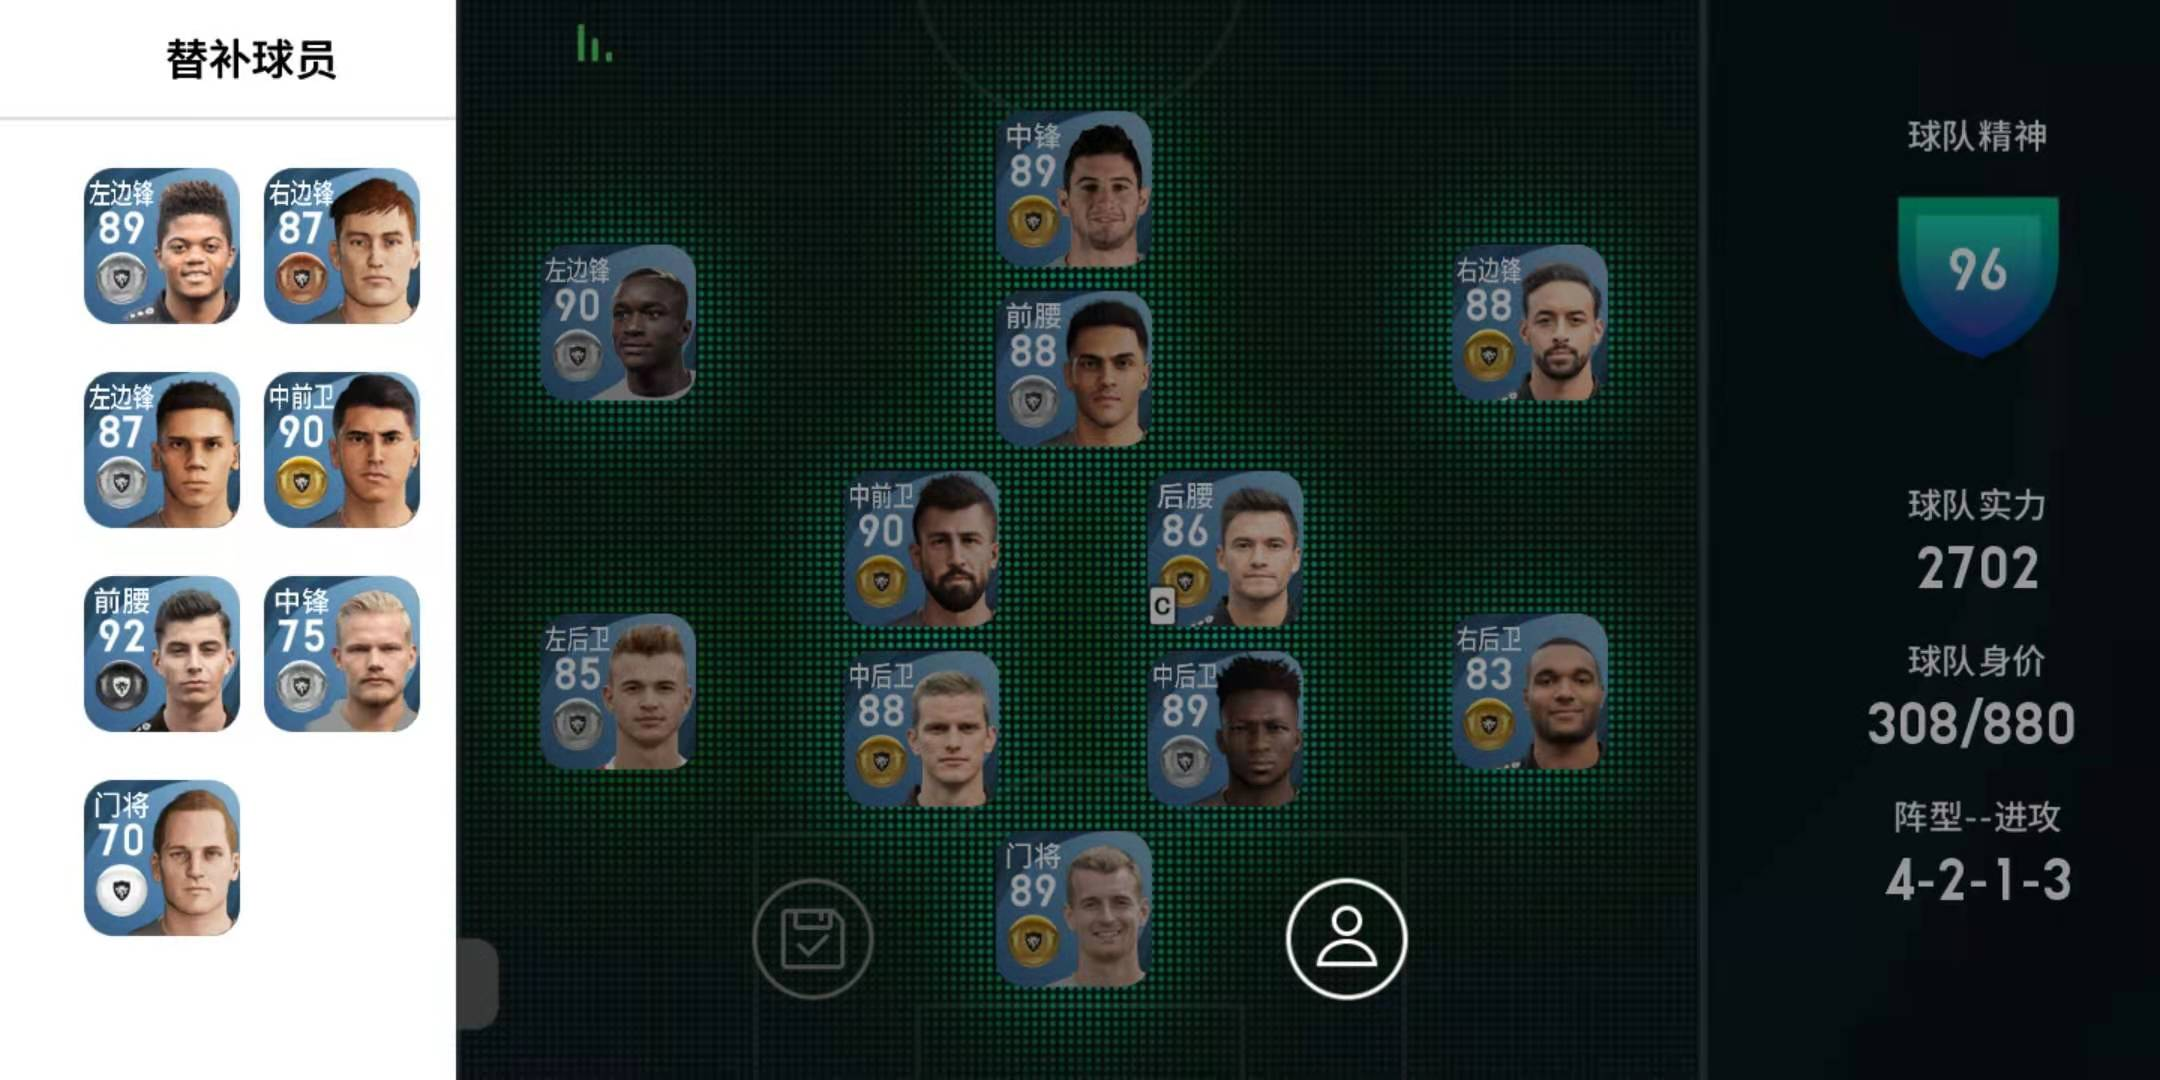
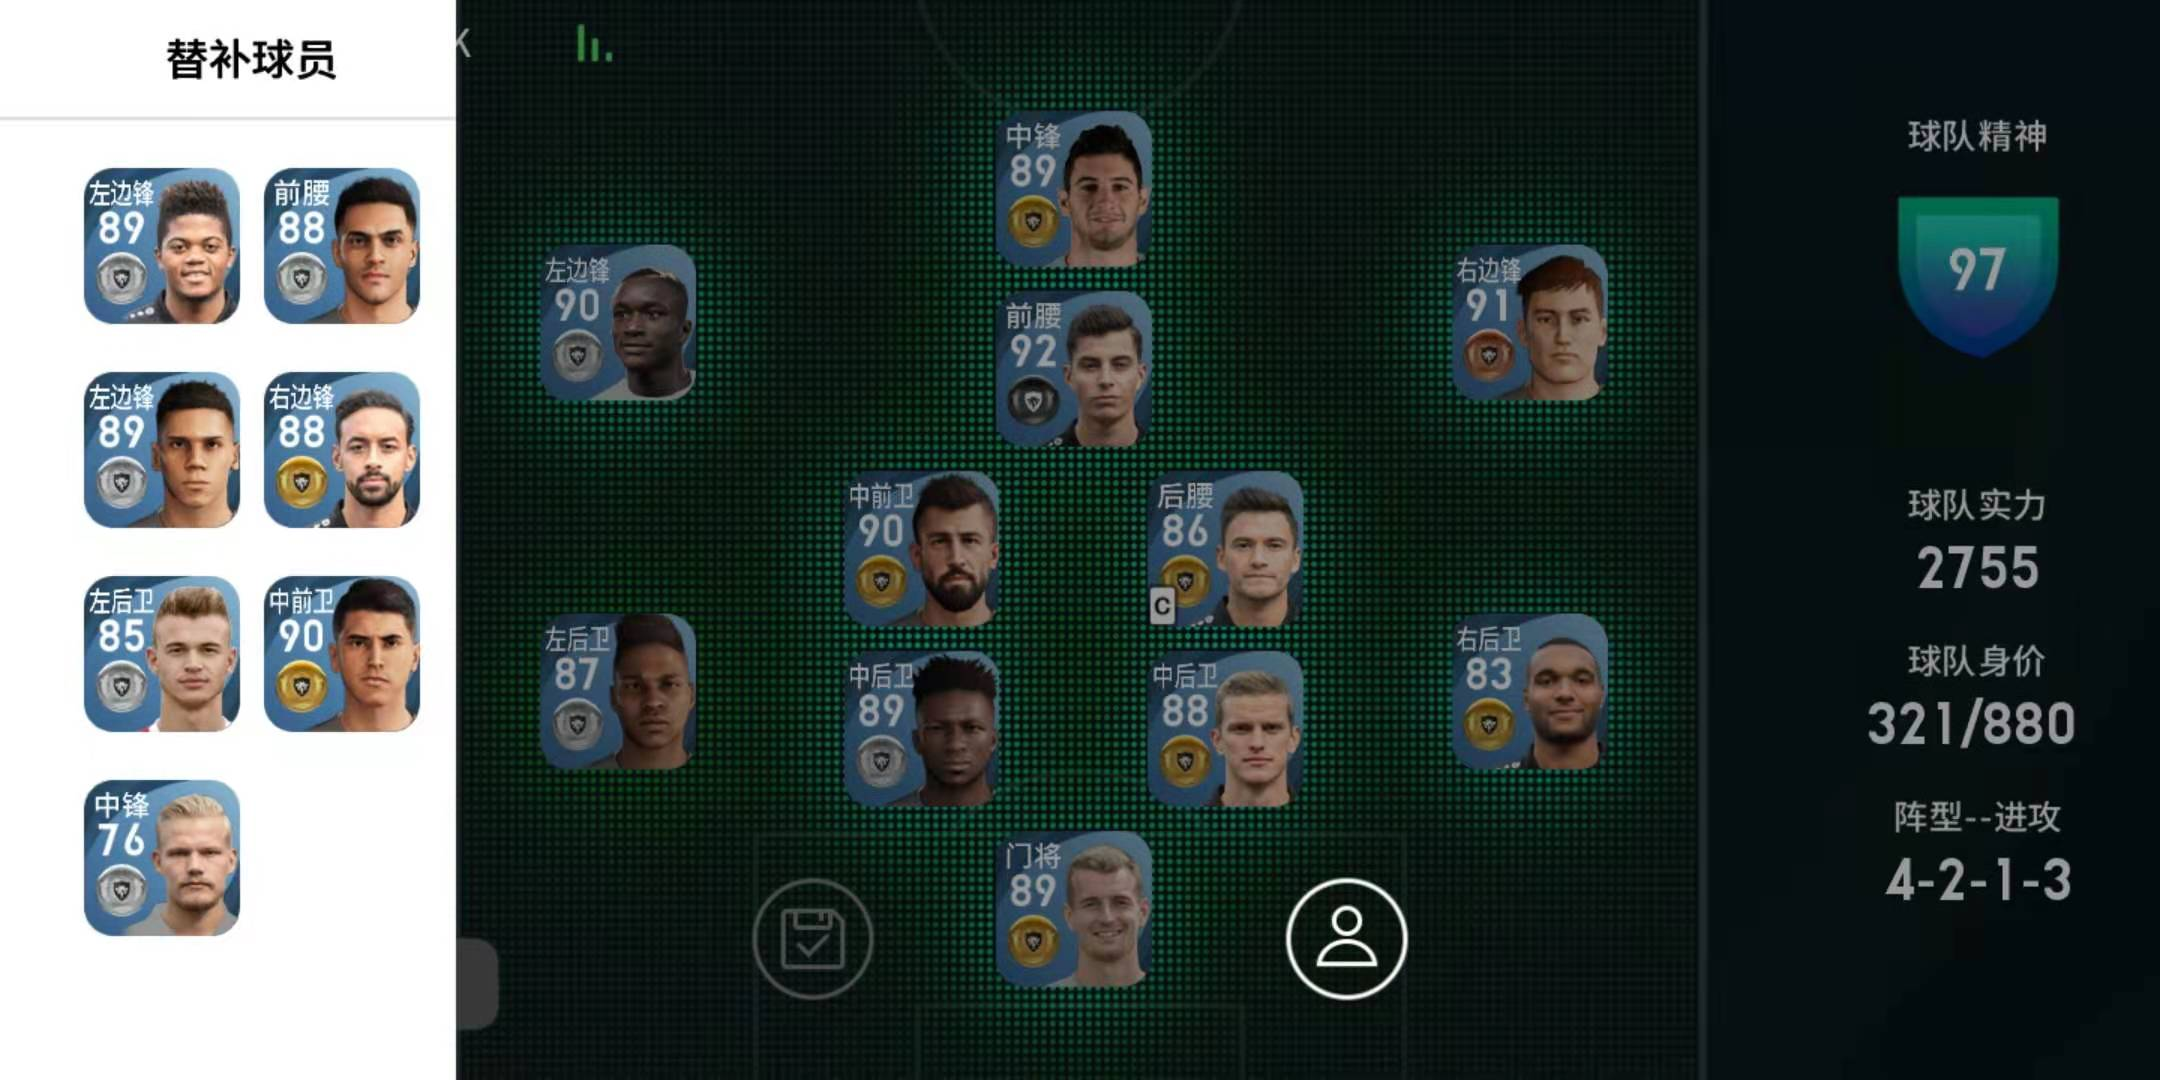
Updated: signed 19th player of leverkusen

diff --git a/club/leverkusen.md b/club/leverkusen.md
@@ -1,6 +1,9 @@
 # 勒沃库森
 
-## 球员表(18)
+## 阵容
+![勒沃库森 18 人大名单](/img/squad-leverkusen.jpg)
+
+## 球员表(19)
 
 位置|球色|姓名|国籍|号码|签下时间|获取途径
 ----|----|----|----|-----|-------|--------
@@ -19,12 +22,14 @@ CMF|金|埃克塞基耶尔·帕拉西奥斯|阿根廷|25|2021.01.03|同名三换
 CB|金|乔纳森·塔阿|德国|4|2021.01.06|同名三换一
 CB|银|埃德蒙·塔普索巴|布基纳法索|12|2021.01.12|同名三换一
 CB|金|斯文·本德|德国|5||
+LB|银|文德尔·博尔热斯|巴西|18|2021-01-26|标准经纪人直签
 LB|银|达利·辛克格拉芬|荷兰|22|2021-01-19|同名三换一
 GK|金|卢卡什·赫拉德茨基|芬兰|1||
 GK|白|尼克拉斯·隆布|德国|36||同名三换一
 
 ## 建队记录
 
+- 2021-01-26 签下**文德尔·博尔热斯**。10 万蓝币连抽，虽未撞出同名球员，但是直接获得文德尔；
 - 2021-01-20 签下**尼克拉斯·隆布**。球员库中有个白球荷兰门将布拉姆·韦尔邦，已经有两个。利用免费球探又合成了一个，凑出来三换一机会，签下队内唯一的白球门将；
 - 2021-01-19 英格兰巡回赛，获得黄潜经纪人，撞出三个同名银球，立刻签下左后卫辛克格拉芬（塔可以客串右后卫，目前缺的是左后卫）；
 - 2021-01-16 打45级联赛获得60金币，加上之前的金额，攒够一个打折的十连抽，撞出三个金球皮克福德，交易出目前对内射手王阿拉里奥；
